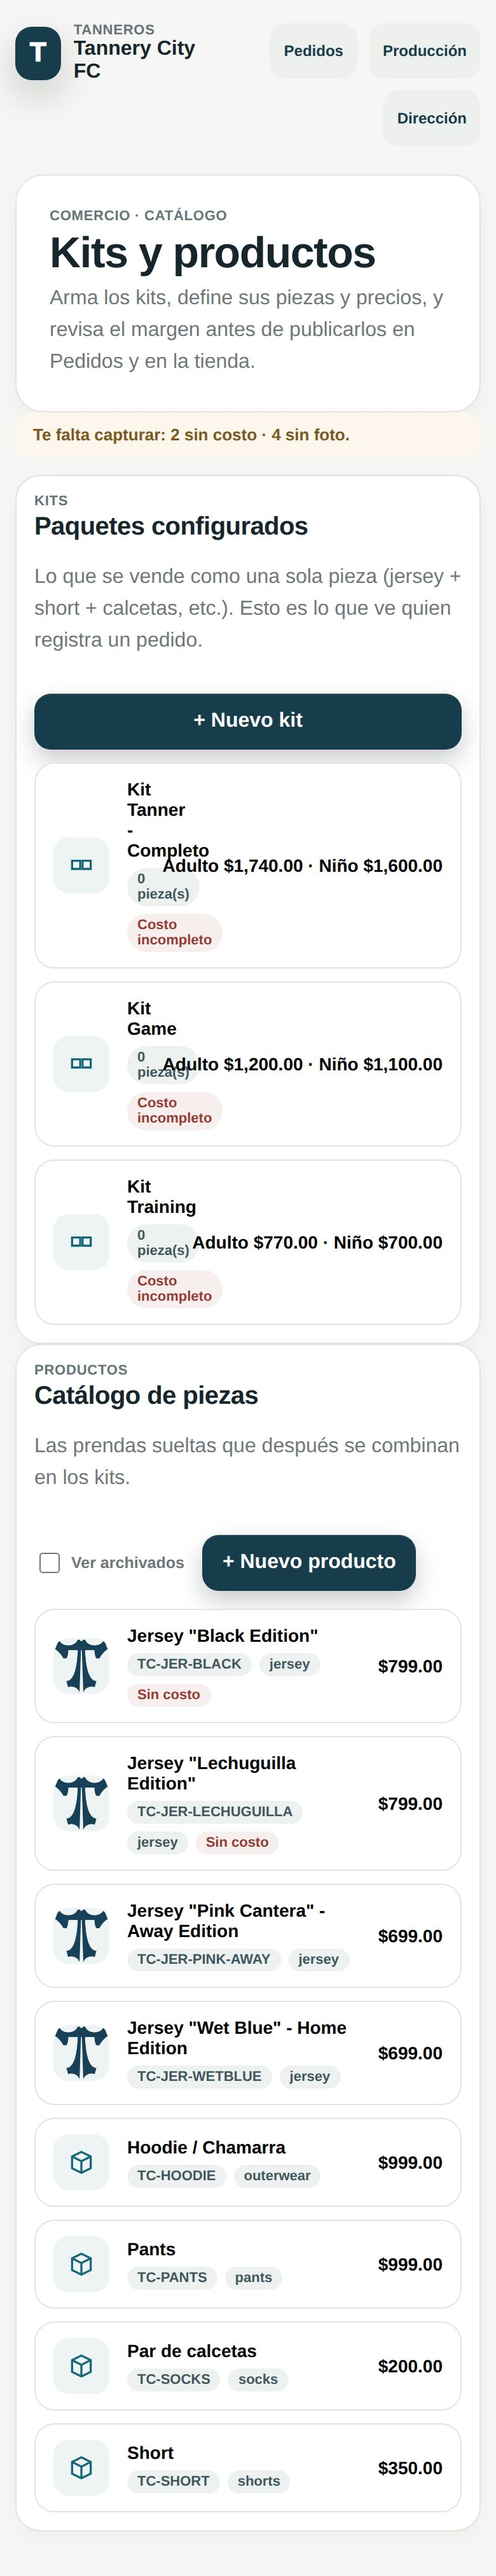
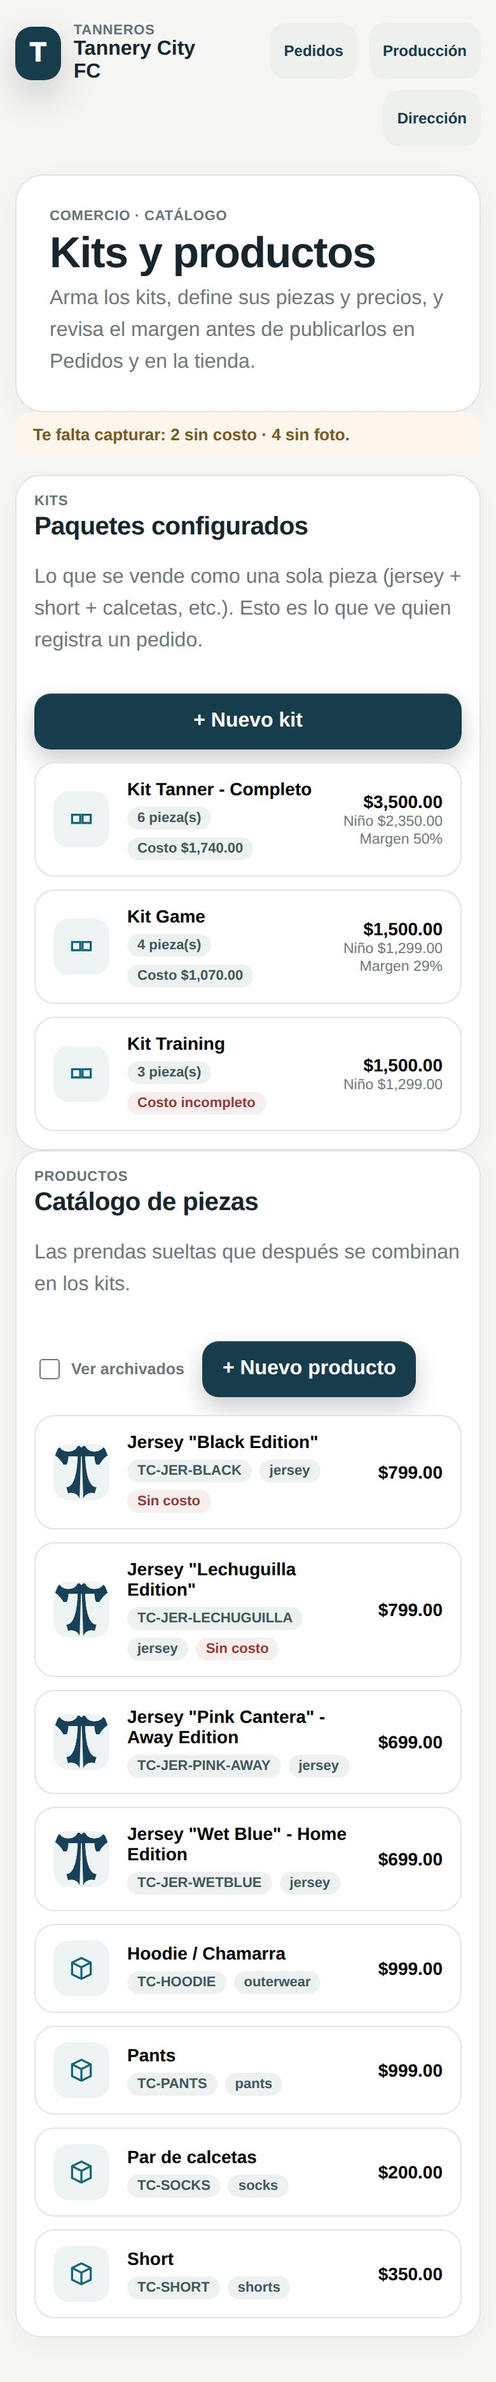
El precio del kit dejaba de caber y se le encimaba al nombre
A 390px la tarjeta de un kit en el catálogo de Presidencia ponía los dos
precios en un solo renglón —"Adulto $3,500.00 · Niño $2,350.00"—: 33
caracteres en negritas que no caben, en una columna con flex:0 0 auto, que
dice "no crezcas" pero no "encoge". El renglón medía lo que medía su texto y
empujaba al nombre del kit y a los chips por debajo. Se ve en la captura
anterior de docs/evidencias/tienda-admin.jpg.

Ahora van uno encima del otro: arriba el de adulto, que es el precio de lista,
y debajo el de niño y el margen. La columna tiene un tope de 40% del ancho,
que es lo que de verdad impide que se coma el nombre.

Un kit que sólo tiene precio de niño se etiqueta: un número grande sin
etiqueta se lee como precio de adulto.

EL BANCO VISUAL MENTÍA EN DOS COSAS

Los tres kits traían 1740 / 1200 / 770 como precios. Esos son los COSTOS. Los
precios reales, medidos en producción, son 3500/2350 para el Completo y
1500/1299 para Game y Training. Un banco que enseña márgenes inventados no
sirve para juzgar la pantalla donde se decide un precio — es el mismo error
que ya había corregido en el encabezado de la migración.

Y traían components:[], que pintaba "0 pieza(s)" en las tres tarjetas. Un kit
de cero piezas no existe. Ahora llevan las piezas que tienen hoy en la base:
6, 4 y 3. El chip que había que revisar era el que dice 6, no el que dice 0.

Al portal le faltaba el Kit Training: la familia va a ver tres, no dos.

LO QUE SE VERIFICÓ CONTRA PRODUCCIÓN
[…]

diff --git a/v2/catalogo/app.js b/v2/catalogo/app.js
@@ -95,8 +95,20 @@ function bundleCard(b){
   if(!b.componentsResolved)chips.push('<span class="cat-chip warn">Pieza sin resolver</span>');
   if(canFinance&&b.costComplete)chips.push(`<span class="cat-chip">Costo ${money.format(Number(b.costTotal||0))}</span>`);
   else if(canFinance)chips.push('<span class="cat-chip warn">Costo incompleto</span>');
-  const priceLine=[b.priceAdult?`Adulto ${money.format(Number(b.priceAdult))}`:null,b.priceKid?`Niño ${money.format(Number(b.priceKid))}`:null].filter(Boolean).join(' · ');
-  btn.innerHTML=`<span class="cat-thumb">${ICONS.kit}</span><span class="cat-body"><strong class="cat-title">${esc(b.name)}</strong><span class="cat-chips">${chips.join('')}</span></span><span class="cat-price-col"><strong class="cat-price">${esc(priceLine||'—')}</strong>${canFinance&&b.marginAdultPercent!=null?`<small class="cat-sub">Margen ${pct(b.marginAdultPercent)}</small>`:''}</span>`;
+  /* Los dos precios van UNO ENCIMA DEL OTRO, no en un solo renglon.
+     Juntos —"Adulto $3,500.00 · Niño $2,350.00"— son 33 caracteres en negritas
+     que a 390px no caben, y la columna del precio no encoge: se le encimaba al
+     nombre del kit y a los chips. Se vio en docs/evidencias/tienda-admin.jpg.
+     Arriba el de adulto, que es el precio de lista; debajo el de niño. */
+  const adulto=Number(b.priceAdult||0),nino=Number(b.priceKid||0);
+  const precio=adulto?money.format(adulto):(nino?money.format(nino):'—');
+  const bajoPrecio=[];
+  // Si el kit SOLO tiene precio de niño, el numero grande es ese y hay que
+  // decirlo: un precio sin etiqueta se lee como precio de adulto.
+  if(adulto&&nino)bajoPrecio.push(`Niño ${money.format(nino)}`);
+  else if(!adulto&&nino)bajoPrecio.push('Sólo niño');
+  if(canFinance&&b.marginAdultPercent!=null)bajoPrecio.push(`Margen ${pct(b.marginAdultPercent)}`);
+  btn.innerHTML=`<span class="cat-thumb">${ICONS.kit}</span><span class="cat-body"><strong class="cat-title">${esc(b.name)}</strong><span class="cat-chips">${chips.join('')}</span></span><span class="cat-price-col"><strong class="cat-price">${esc(precio)}</strong>${bajoPrecio.map(t=>`<small class="cat-sub">${esc(t)}</small>`).join('')}</span>`;
   if(canManage)btn.addEventListener('click',()=>openBundleDrawer(b));
   else btn.disabled=true;
   return btn;

diff --git a/v2/catalogo/catalogo.css b/v2/catalogo/catalogo.css
@@ -28,14 +28,18 @@
 .cat-thumb{overflow:hidden;}
 .cat-thumb img{width:100%;height:100%;object-fit:cover;display:block;}
 .cat-body{flex:1;min-width:0;display:flex;flex-direction:column;gap:6px;}
-.cat-title{font-size:14px;}
+.cat-title{font-size:14px;overflow-wrap:anywhere;}
 .cat-chips{display:flex;flex-wrap:wrap;gap:6px;}
 .cat-chip{font-size:11px;font-weight:750;padding:3px 8px;border-radius:999px;background:#edf2f1;color:#42575d;}
 .cat-chip.warn{background:#f7eeee;color:#943c35;}
 .cat-chip.archived{background:rgba(184,164,100,.18);color:#766526;}
-.cat-price-col{flex:0 0 auto;display:flex;flex-direction:column;align-items:flex-end;gap:2px;}
-.cat-price{font-size:14px;}
-.cat-sub{color:var(--muted);font-size:11.5px;}
+/* El precio nunca se come al nombre.
+   flex:0 0 auto solo le dice "no crezcas"; sin un tope sigue midiendo lo que
+   mida su texto y empuja al resto de la tarjeta. El tope es lo que evita que
+   a 390px el precio del kit se encime con el nombre y los chips. */
+.cat-price-col{flex:0 1 auto;max-width:40%;display:flex;flex-direction:column;align-items:flex-end;gap:2px;text-align:right;}
+.cat-price{font-size:14px;white-space:nowrap;}
+.cat-sub{color:var(--muted);font-size:11.5px;white-space:nowrap;}
 
 /* Drawer de edición */
 .catalog-drawer{width:min(520px,92vw);}
